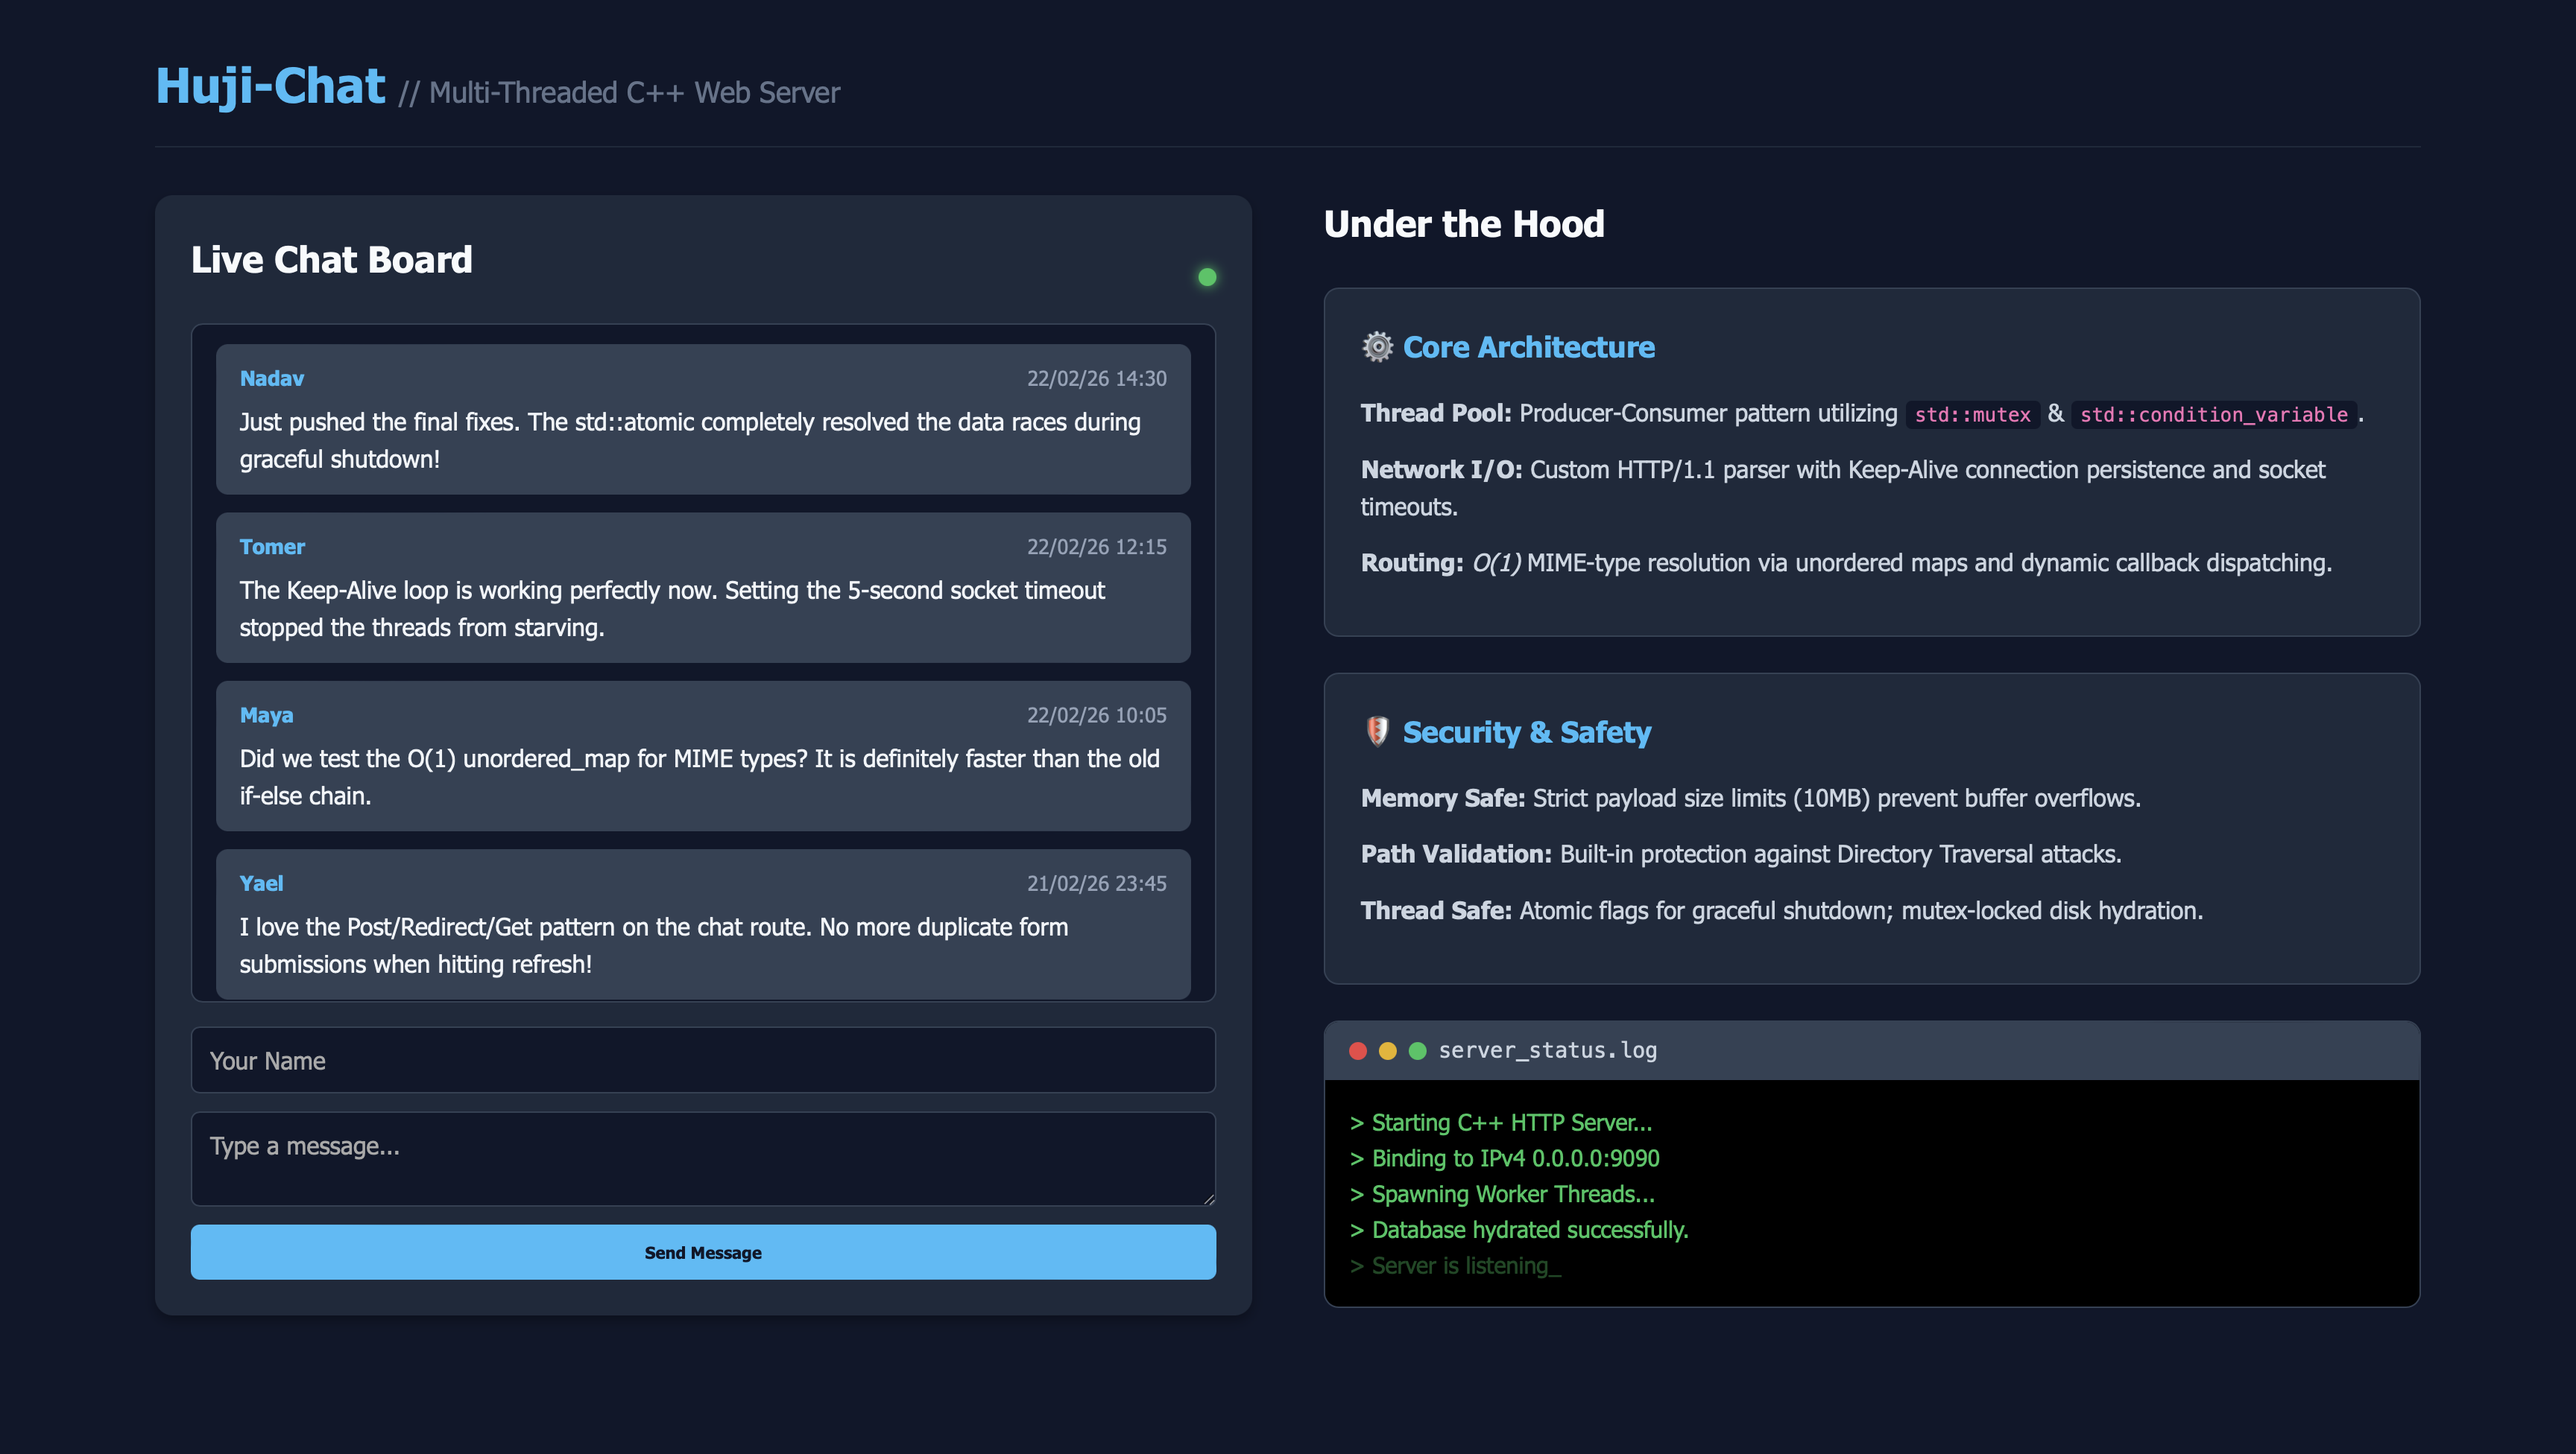
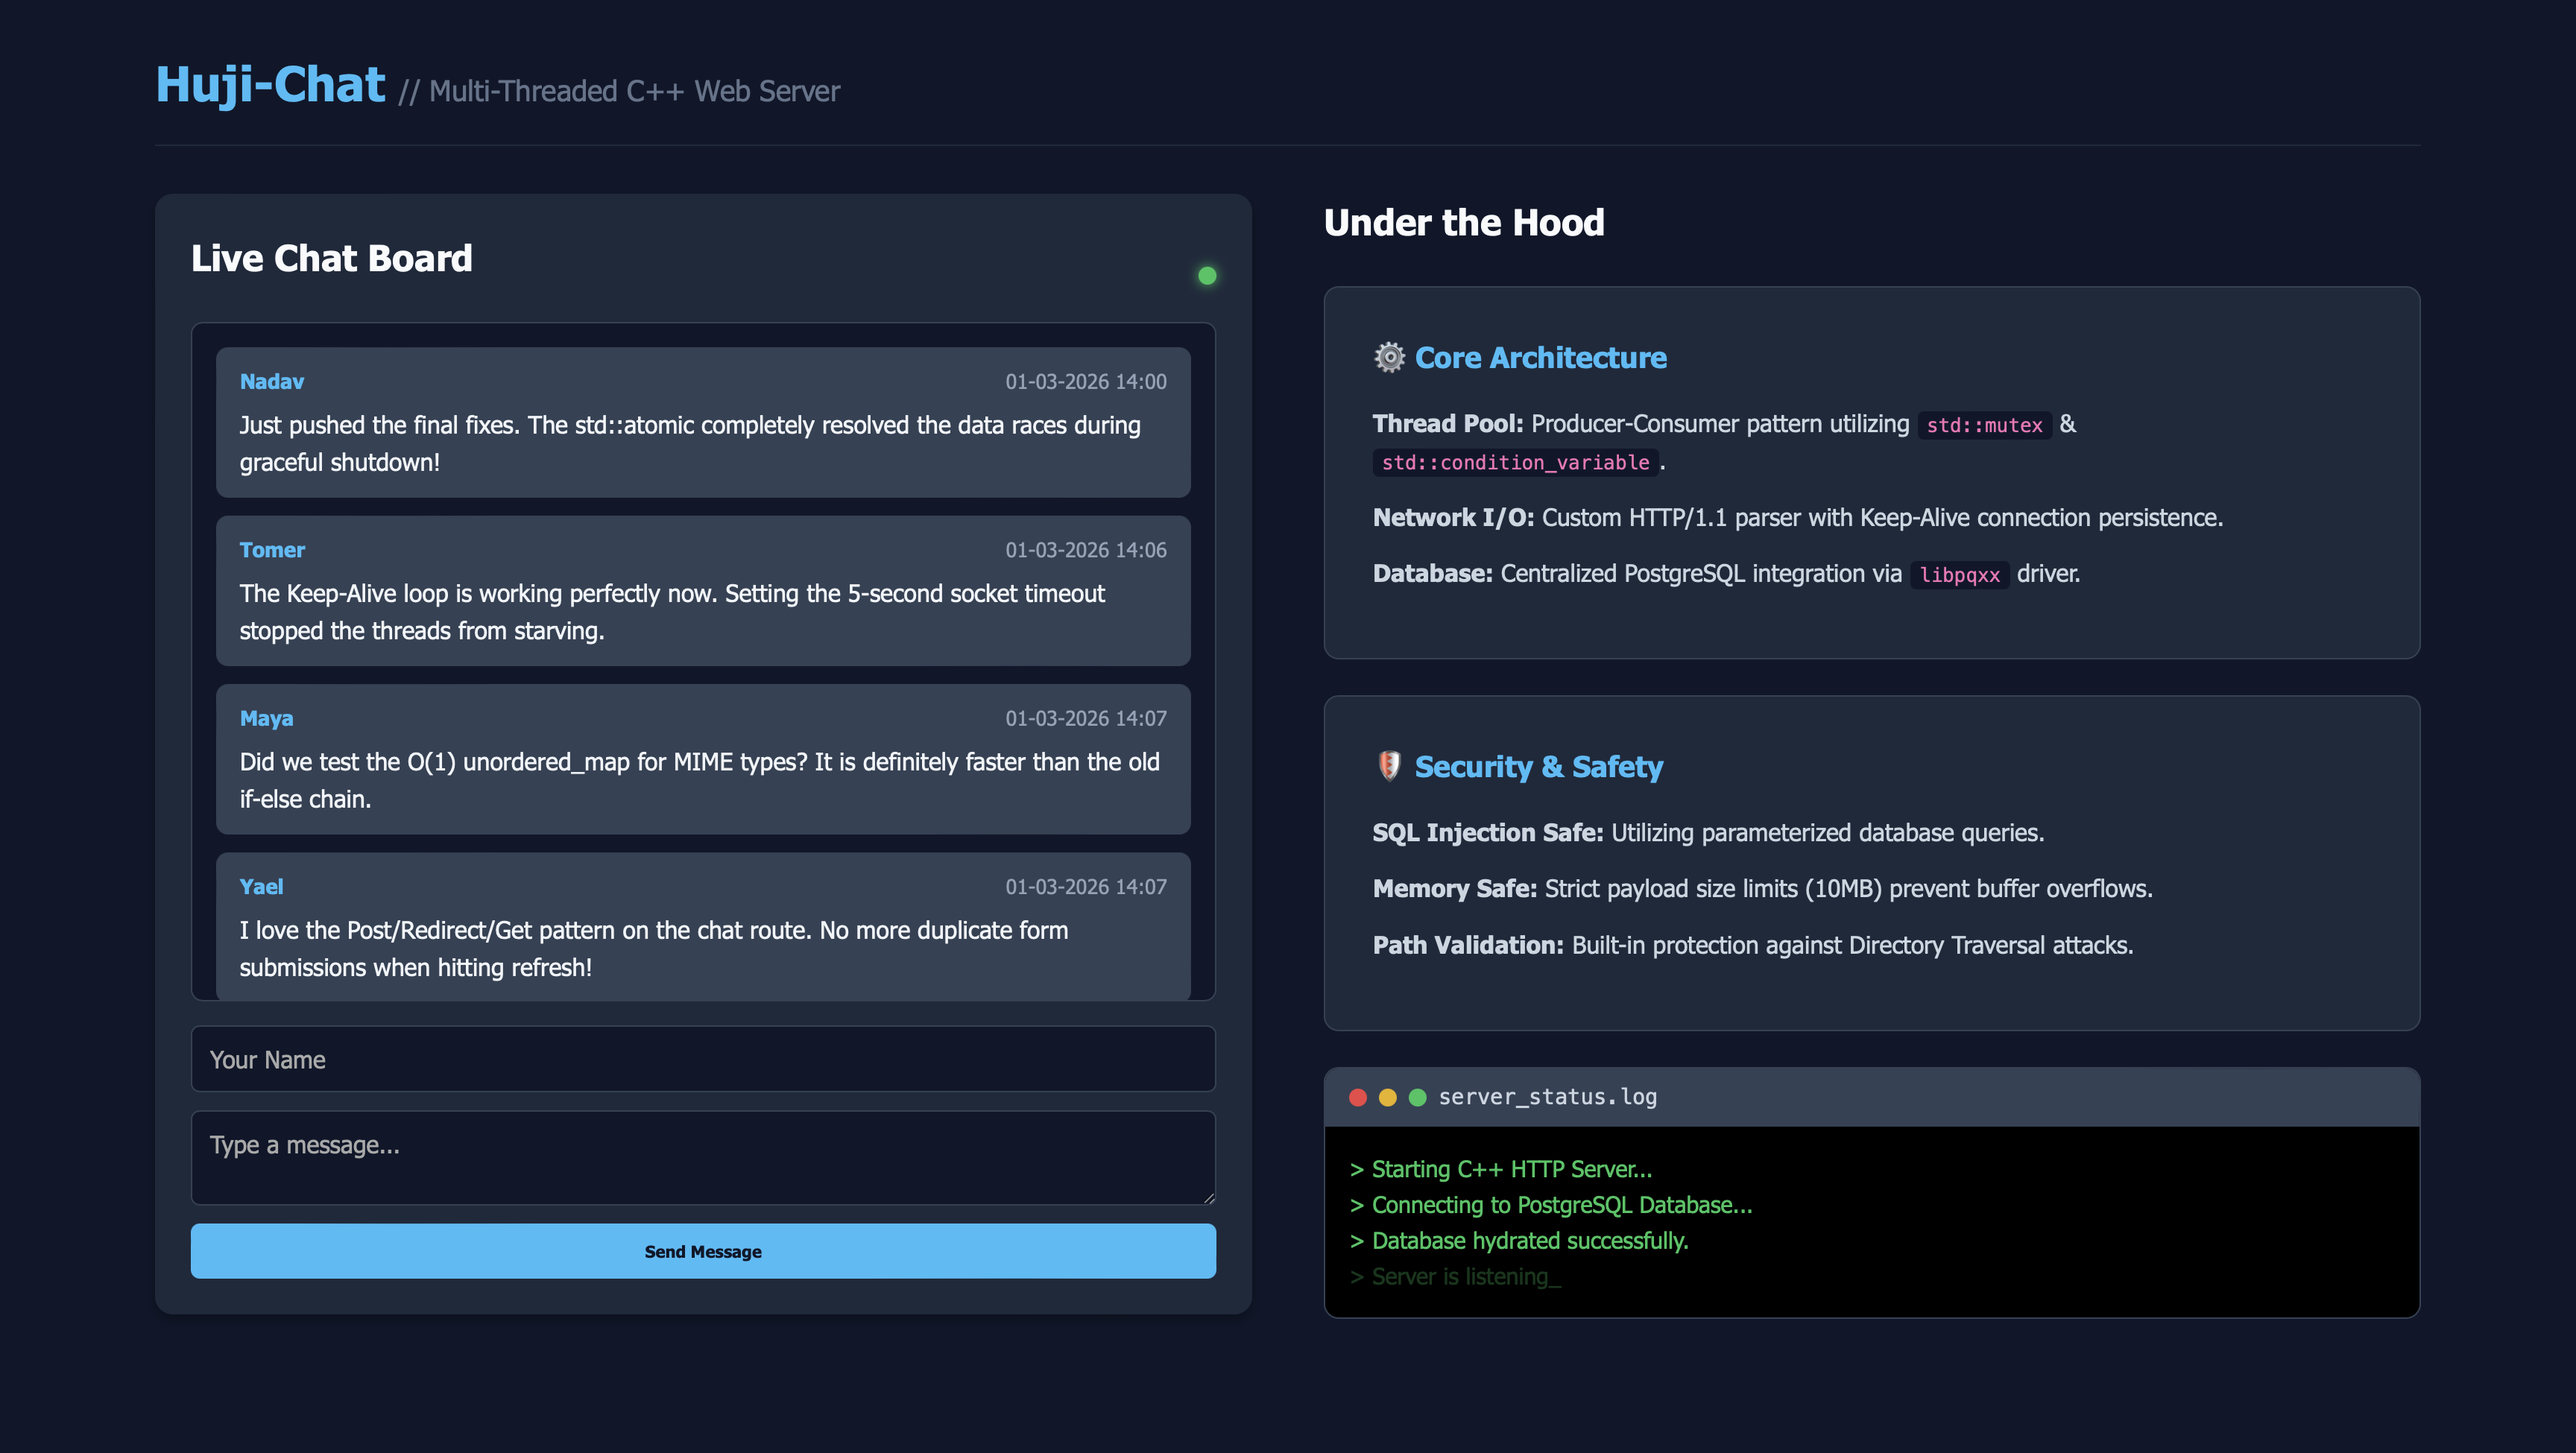
update the README file

diff --git a/README.md b/README.md
@@ -1,95 +1,88 @@
-# Huji-Chat: Multi-Threaded C++ Web Server
+# Huji-Chat: Cloud-Native Multi-Threaded C++ Web Server
 
 ![C++20](https://img.shields.io/badge/C++-20-blue.svg)
-![Build](https://img.shields.io/badge/build-passing-brightgreen.svg)
-![License](https://img.shields.io/badge/license-MIT-green.svg)
+![Docker](https://img.shields.io/badge/Docker-Ready-blue.svg)
+![PostgreSQL](https://img.shields.io/badge/DB-PostgreSQL-blue.svg)
+![Kubernetes](https://img.shields.io/badge/K8s-Scalable-blue.svg)
 
-> **Live Developer Dashboard:** Built-in split-view showing the live chat board alongside real-time server diagnostics.
+> **Enterprise-Ready Backend:** A high-performance C++ server containerized with Docker, featuring persistent PostgreSQL
+storage and Kubernetes orchestration.
 
 ![Huji-Chat Dashboard](assets/dashboard.png)
 
-Huji-Chat is a custom-built, dependency-free HTTP/1.1 web server written entirely from scratch in modern C++. It features a robust Producer-Consumer thread pool architecture, persistent data storage, and a built-in real-time chat dashboard. 
-
-This project was developed to demonstrate low-level POSIX socket programming, concurrent system design, and strict memory safety without relying on external web frameworks.
+Huji-Chat is a custom-built, modern C++ web server that bridges low-level POSIX programming with modern cloud-native
+deployment. It features a robust Producer-Consumer thread pool, a resilient PostgreSQL integration, and a built-in
+real-time chat dashboard.
 
 ## Key Features
 
-* **Custom Thread Pool:** Utilizes a Producer-Consumer pattern with `std::mutex` and `std::condition_variable` to handle thousands of concurrent connections efficiently without thread exhaustion.
-* **HTTP Keep-Alive:** Implements persistent TCP connections with strict socket timeouts to prevent thread starvation.
-* **O(1) MIME Routing:** Fast static file serving with $O(1)$ MIME-type resolution using `std::unordered_map`.
-* **Thread-Safe Database:** Hydrates and persists chat messages to disk (`chat_db.txt`), utilizing lock guards for race-condition-free concurrent reads and writes.
-* **Graceful Shutdown:** Intercepts OS signals (SIGINT) and uses `std::atomic<bool>` flags to ensure all threads finish their current tasks and file descriptors are safely closed before exiting.
-* **Security:** Built-in defenses against Directory Traversal attacks (`../`) and strict payload size limits to prevent buffer overflow/memory exhaustion.
+* **Custom Thread Pool:** Utilizes a Producer-Consumer pattern with `std::mutex` and `std::condition_variable` to handle
+  concurrent connections efficiently.
+* **PostgreSQL Integration:** Migrated from flat-file storage to a centralized PostgreSQL database using the `libpqxx`
+  driver for high-concurrency data persistence.
+* **Containerized Architecture:** Fully Dockerized using **Multi-Stage Builds** to produce a tiny (~20MB), secure
+  production image.
+* **Resilient Startup:** Implements a **Retry-Loop** connection strategy to handle database boot-up latency (race
+  conditions) in containerized environments.
+* **Cloud-Scale Ready:** Includes Kubernetes manifests for horizontal scaling (replicas) and self-healing via liveness
+  probes.
+* **Security:** Features **SQL Injection protection** via parameterized queries, built-in Directory Traversal defense,
+  and strict payload limits.
 
 ## Core Architecture
+### The Cloud-Native Stack
 
-### The Producer-Consumer Concurrency Model
-To maximize throughput, the server avoids the overhead of spawning a new thread for every HTTP request. 
-
-1.  **The Producer (Main Thread):** Continuously blocks on `accept()`. When a client connects, it immediately pushes the network socket (File Descriptor) onto a thread-safe task queue and signals the condition variable.
-2.  **The Consumers (Worker Threads):** A pre-allocated pool of threads sleeps until signaled. Upon waking, a thread safely pops a socket from the queue, executes the HTTP Keep-Alive loop, routes the request, and transmits the payload.
+1. **Orchestration (Docker Compose):** Manages the lifecycle of both the server and the database, including virtual
+   networking and persistent volumes.
+2. **The Producer-Consumer Model:** The main thread (Producer) accepts sockets and pushes them to a synchronized queue.
+   Worker threads (Consumers) pop sockets to execute the HTTP Keep-Alive loop and route requests.
+3. **Data Persistence:** Uses Docker Volumes to ensure chat history survives container restarts and upgrades.
 
 ## Technical Challenges & Solutions
+### 1. The Startup Race Condition
 
-### Graceful Shutdown & Data Races
-**The Challenge:** In a multi-threaded environment, shutting down the server cleanly without leaking file descriptors or creating orphaned processes is complex. Initially, using a standard `bool stop_server` flag led to data races and undefined behavior, as CPU caching prevented worker threads from seeing the updated state. Furthermore, the main thread was permanently blocked on the `accept()` system call, preventing it from evaluating the exit condition.
+**Challenge:** In Docker Compose, the C++ server often boots in milliseconds, while PostgreSQL requires several seconds
+to initialize its file system. This caused the server to crash on startup due to "Connection Refused."
 
-**The Solution:**
-To ensure a deterministic and thread-safe shutdown sequence, I implemented the following synchronization mechanisms:
+**Solution:** I implemented a **Retry Loop** in C++. The server now gracefully waits and attempts to reconnect to the
+database up to 5 times with a 2-second delay between attempts, ensuring system resilience.
 
-1. **Atomic Flags:** Upgraded the shutdown signal to `std::atomic<bool>`. This guarantees that memory writes are instantly visible across all CPU cores without the overhead of a mutex lock.
-2. **Lock-Free Execution Check:** Used `compare_exchange_strong` to ensure that if multiple threads receive a kill signal simultaneously, only the *first* thread executes the cleanup sequence.
-3. **Unblocking System Calls:** To wake up the main thread trapped in the `accept()` loop, the shutdown sequence explicitly closes the main `server_fd`. This intentionally interrupts the blocking call, allowing the loop to break safely.
-4. **Condition Variable Broadcasting:** Used `cv.notify_all()` to wake all dormant worker threads simultaneously. They immediately evaluate the atomic flag, bypass the task queue, and exit cleanly.
-5. **Thread Joining:** A final loop calls `.join()` on all worker threads, ensuring the operating system reclaims all thread resources before the process terminates.
+### 2. SQL Injection & Thread Safety
+
+**Challenge:** Moving to a database introduced the risk of SQL injection and the complexity of managing concurrent
+database handles across multiple worker threads.
+
+**Solution:** I utilized `pqxx::work` transactions for atomic operations and strictly enforced **parameterized queries
+** (`exec_params`). This separates user data from SQL logic, making the server immune to common injection attacks.
 
 ## The Developer Dashboard
 
-The root `/chat` endpoint serves a responsive, dark-mode dashboard built with raw string literals. It features a Post/Redirect/Get (PRG) pattern to prevent duplicate form submissions and displays live server diagnostics.
+The `/chat` endpoint serves a responsive dashboard displaying live messages fetched directly from PostgreSQL and
+real-time server health diagnostics.
 
 ## Getting Started
-
 ### Prerequisites
-* A C++ compiler that supports C++20 (e.g., `g++` or `clang++`).
-* A Unix-like environment (Linux/macOS) for POSIX `<sys/socket.h>` compatibility.
 
-### Build and Run
+* Docker & Docker Desktop (Recommended)
+* A C++20 compatible compiler (for local builds)
 
-1. Clone the repository:
+### Run with Docker (Easiest)
+
+1. **Launch the entire stack:**
    ```bash
-   git clone [https://github.com/yourusername/huji-chat.git](https://github.com/yourusername/huji-chat.git)
-   cd huji-chat
+   docker-compose up --build
+   ```
+2. **Access the Dashboard:** Navigate to `http://localhost:9090/chat`
 
-2. Compile the source code:
-   ```bash
-   g++ -std=c++20 -O3 src/*.cpp -o server -pthread
-
-3. Run the server:
-   ```bash
-   ./server
-
-4. Open your browser and navigate to:
-   ```bash
-   http://localhost:8080/chat
-
-## Project Structure:
-```Plaintext
+## Project Structure
+```bash 
 .
-├── assets/            # Project screenshots and diagrams for GitHub
-│   └── dashboard.png  # Screenshot of the live Developer Dashboard
-├── include/           # Header files (.hpp)
-│   ├── Common.hpp     # HTTP Data structures & Constants
-│   ├── Parsers.hpp    # String & Protocol parsing logic
-│   └── Server.hpp     # HttpServer class & Thread Pool definition
-├── src/               # Implementation files (.cpp)
-│   ├── Common.cpp     # Response serialization
-│   ├── Parsers.cpp    # URL/JSON parsing & MIME resolution
-│   ├── Server.cpp     # Socket logic & Thread Pool orchestration
-│   └── main.cpp       # Route definitions & Server entry point
-├── public/            # Static assets served by the backend
-│   ├── index.html     # Developer portfolio landing page
-│   ├── style.css      # Dashboard and landing page styling
-│   └── profile.jpeg   # Profile image for the landing page
-├── server.conf        # Configuration (Port, Thread Count)
-├── chat_db.txt        # Persistent message storage
-└── Makefile           # Automated build script
+├── docker-compose.yml # Local orchestration & volumes
+├── Dockerfile         # Multi-stage production build
+├── deployment.yaml    # Kubernetes scale/self-healing manifest
+├── Makefile           # Build system with libpqxx linking
+├── include/           # Header files
+├── src/               # Implementation files
+├── public/            # Static assets (HTML/CSS/JS)
+└── server.conf        # Port & Thread configuration
+```
